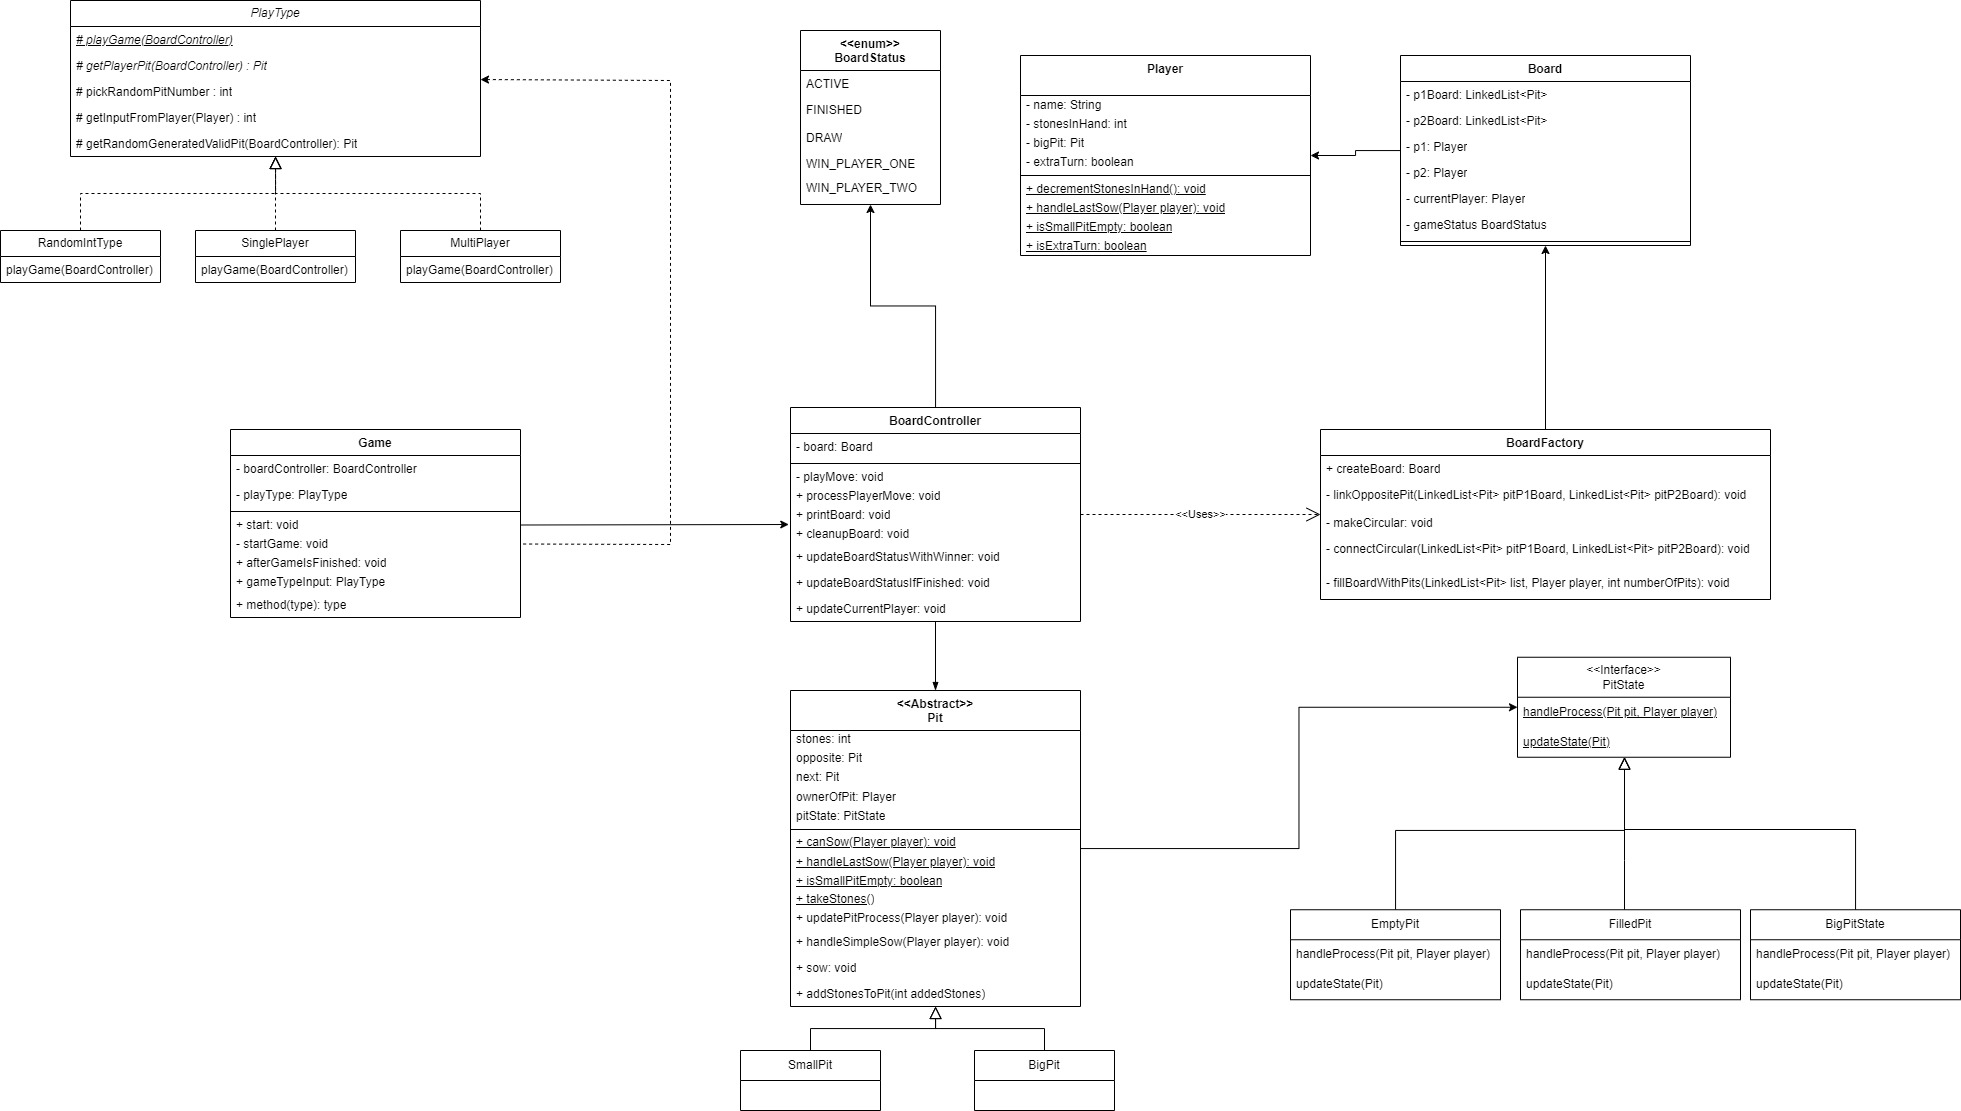
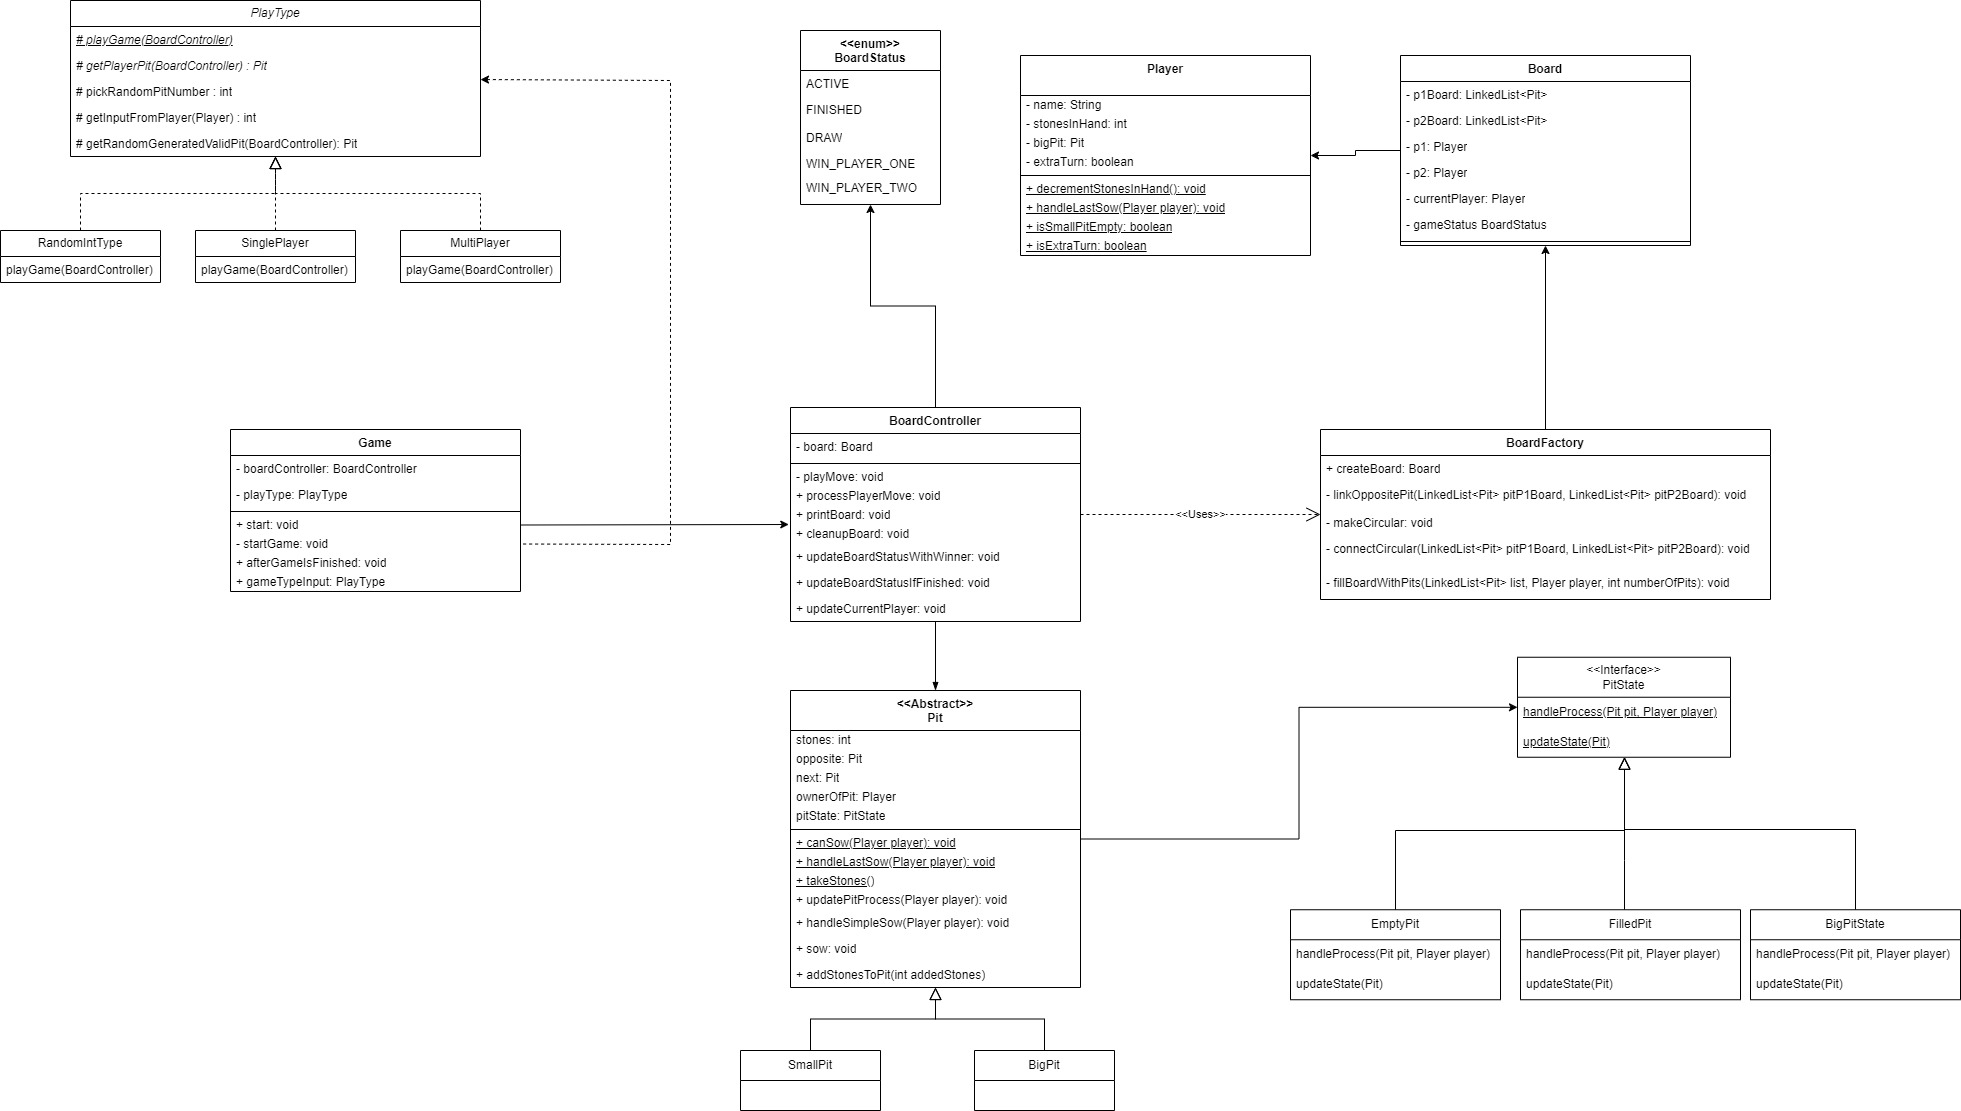
Remove hacky isSmallPitEmpty from pit class. Add extra test

Changed region(s): [[0.4044, 0.7345, 0.5288, 0.9181], [0.4044, 0.6427, 0.4355, 0.7039], [0.1244, 0.5203, 0.1866, 0.5509]]

diff --git a/src/main/java/com/sgriendt/board/BoardController.java b/src/main/java/com/sgriendt/board/BoardController.java
@@ -1,6 +1,7 @@
 package com.sgriendt.board;
 
 
+import com.sgriendt.exception.KalahaIllegalGameException;
 import com.sgriendt.pit.Pit;
 import com.sgriendt.player.Player;
 
@@ -75,19 +76,21 @@ public record BoardController(Board board) {
             board.setGameStatus(BoardStatus.DRAW);
             return;
         }
-        if (p1Stones > p2Stones) {
-            board.setGameStatus(BoardStatus.WIN_PLAYER_ONE);
-        } else {
-            board.setGameStatus(BoardStatus.WIN_PLAYER_TWO);
-        }
+
+        final BoardStatus boardStatus = p1Stones > p2Stones ? BoardStatus.WIN_PLAYER_ONE : BoardStatus.WIN_PLAYER_TWO;
+        board.setGameStatus(boardStatus);
     }
 
     public void updateBoardStatusIfFinished() {
-        boolean p1Finished = board.getPlayer1Board().stream().limit(board.getPlayer1Board().size() - 1).allMatch(Pit::isSmallPitEmpty);
-        boolean p2Finished = board.getPlayer2Board().stream().limit(board.getPlayer2Board().size() - 1).allMatch(Pit::isSmallPitEmpty);
+        boolean p1Finished = isPlayerFinished(board.getPlayer1Board());
+        boolean p2Finished = isPlayerFinished(board.getPlayer2Board());
         if (p1Finished || p2Finished) {
             board.setGameStatus(BoardStatus.FINISHED);
         }
+    }
+
+    private boolean isPlayerFinished(List<Pit> list) {
+        return list.stream().limit(list.size() - 1).mapToInt(Pit::getStonesInPit).allMatch(x-> x == 0);
     }
 
     public void updateCurrentPlayer() {

diff --git a/src/test/java/com/sgriendt/board/BoardTest.java b/src/test/java/com/sgriendt/board/BoardTest.java
@@ -47,4 +47,18 @@ class BoardTest {
         assertEquals(totalNumberOfStones, board.board().getPlayer1().getBigPit().getStonesInPit());
         assertEquals(totalNumberOfStones, board.board().getPlayer2().getBigPit().getStonesInPit());
     }
+
+    @Test
+    void testIsPlayer1Finished() {
+        BoardController boardController = new BoardController(BoardFactory.createBoard());
+        Board board = boardController.board();
+        assertEquals(BoardStatus.ACTIVE, board.getGameStatus());
+        boardController.updateBoardStatusIfFinished();
+        assertEquals(BoardStatus.ACTIVE, board.getGameStatus());
+
+        board.getPlayer1Board().subList(0, board.getPlayer1Board().size() - 1).forEach(x -> x.setStonesInPit(0));
+        boardController.updateBoardStatusIfFinished();
+        assertEquals(BoardStatus.FINISHED, board.getGameStatus());
+    }
+
 }

diff --git a/src/main/java/com/sgriendt/pit/Pit.java b/src/main/java/com/sgriendt/pit/Pit.java
@@ -21,8 +21,6 @@ public abstract class Pit {
     public abstract boolean canSow(Player player);
     public abstract void handleLastSow(Player currentPlayer);
 
-    public abstract boolean isSmallPitEmpty();
-
     public void updatePitProcess(Player currentPlayer) {
         if (currentPlayer.getStonesInHand() <= 0) {
             throw new IllegalStateException("Cant process move, when hand is empty");

diff --git a/src/main/java/com/sgriendt/pit/BigPit.java b/src/main/java/com/sgriendt/pit/BigPit.java
@@ -33,9 +33,4 @@ public class BigPit extends Pit {
     public boolean canSow(Player player) {
         return player.equals(super.getOwnerOfPit());
     }
-
-    @Override
-    public boolean isSmallPitEmpty() {
-        return false;
-    }
 }

diff --git a/src/main/java/com/sgriendt/pit/SmallPit.java b/src/main/java/com/sgriendt/pit/SmallPit.java
@@ -48,8 +48,4 @@ public class SmallPit extends Pit {
         return true;
     }
 
-    @Override
-    public boolean isSmallPitEmpty() {
-        return super.getStonesInPit() <= 0;
-    }
 }
